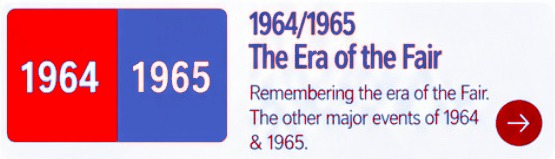
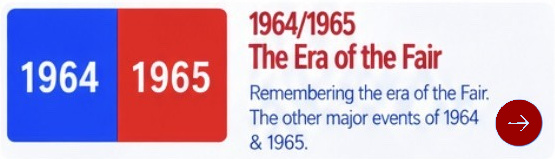
Information hover: swap only the link-symbol colors
Regenerate information-booth hover crops so navy↔burgundy applies to
the circle-arrow only; title and body text colors stay unchanged on hover.

diff --git a/src/components/InformationBoothLinks.tsx b/src/components/InformationBoothLinks.tsx
@@ -2,7 +2,7 @@ import Image from "next/image";
 import Link from "next/link";
 import styles from "./InformationBoothLinks.module.css";
 
-/** Exact user artwork — base image unchanged. Hover crops only swap navy↔burgundy. */
+/** Exact user artwork — base image unchanged. Hover crops swap navy↔burgundy on the link-symbol circle only; text colors stay put; thumbnails untouched. */
 const TOPICS = [
   {
     id: "facts",

diff --git a/src/components/InformationBoothLinks.module.css b/src/components/InformationBoothLinks.module.css
@@ -1,4 +1,4 @@
-/* User-provided Information Booth topic grid — hover crops swap navy↔burgundy only */
+/* User-provided Information Booth topic grid — hover crops swap navy↔burgundy on link symbol only */
 
 .section {
   width: 100%;
